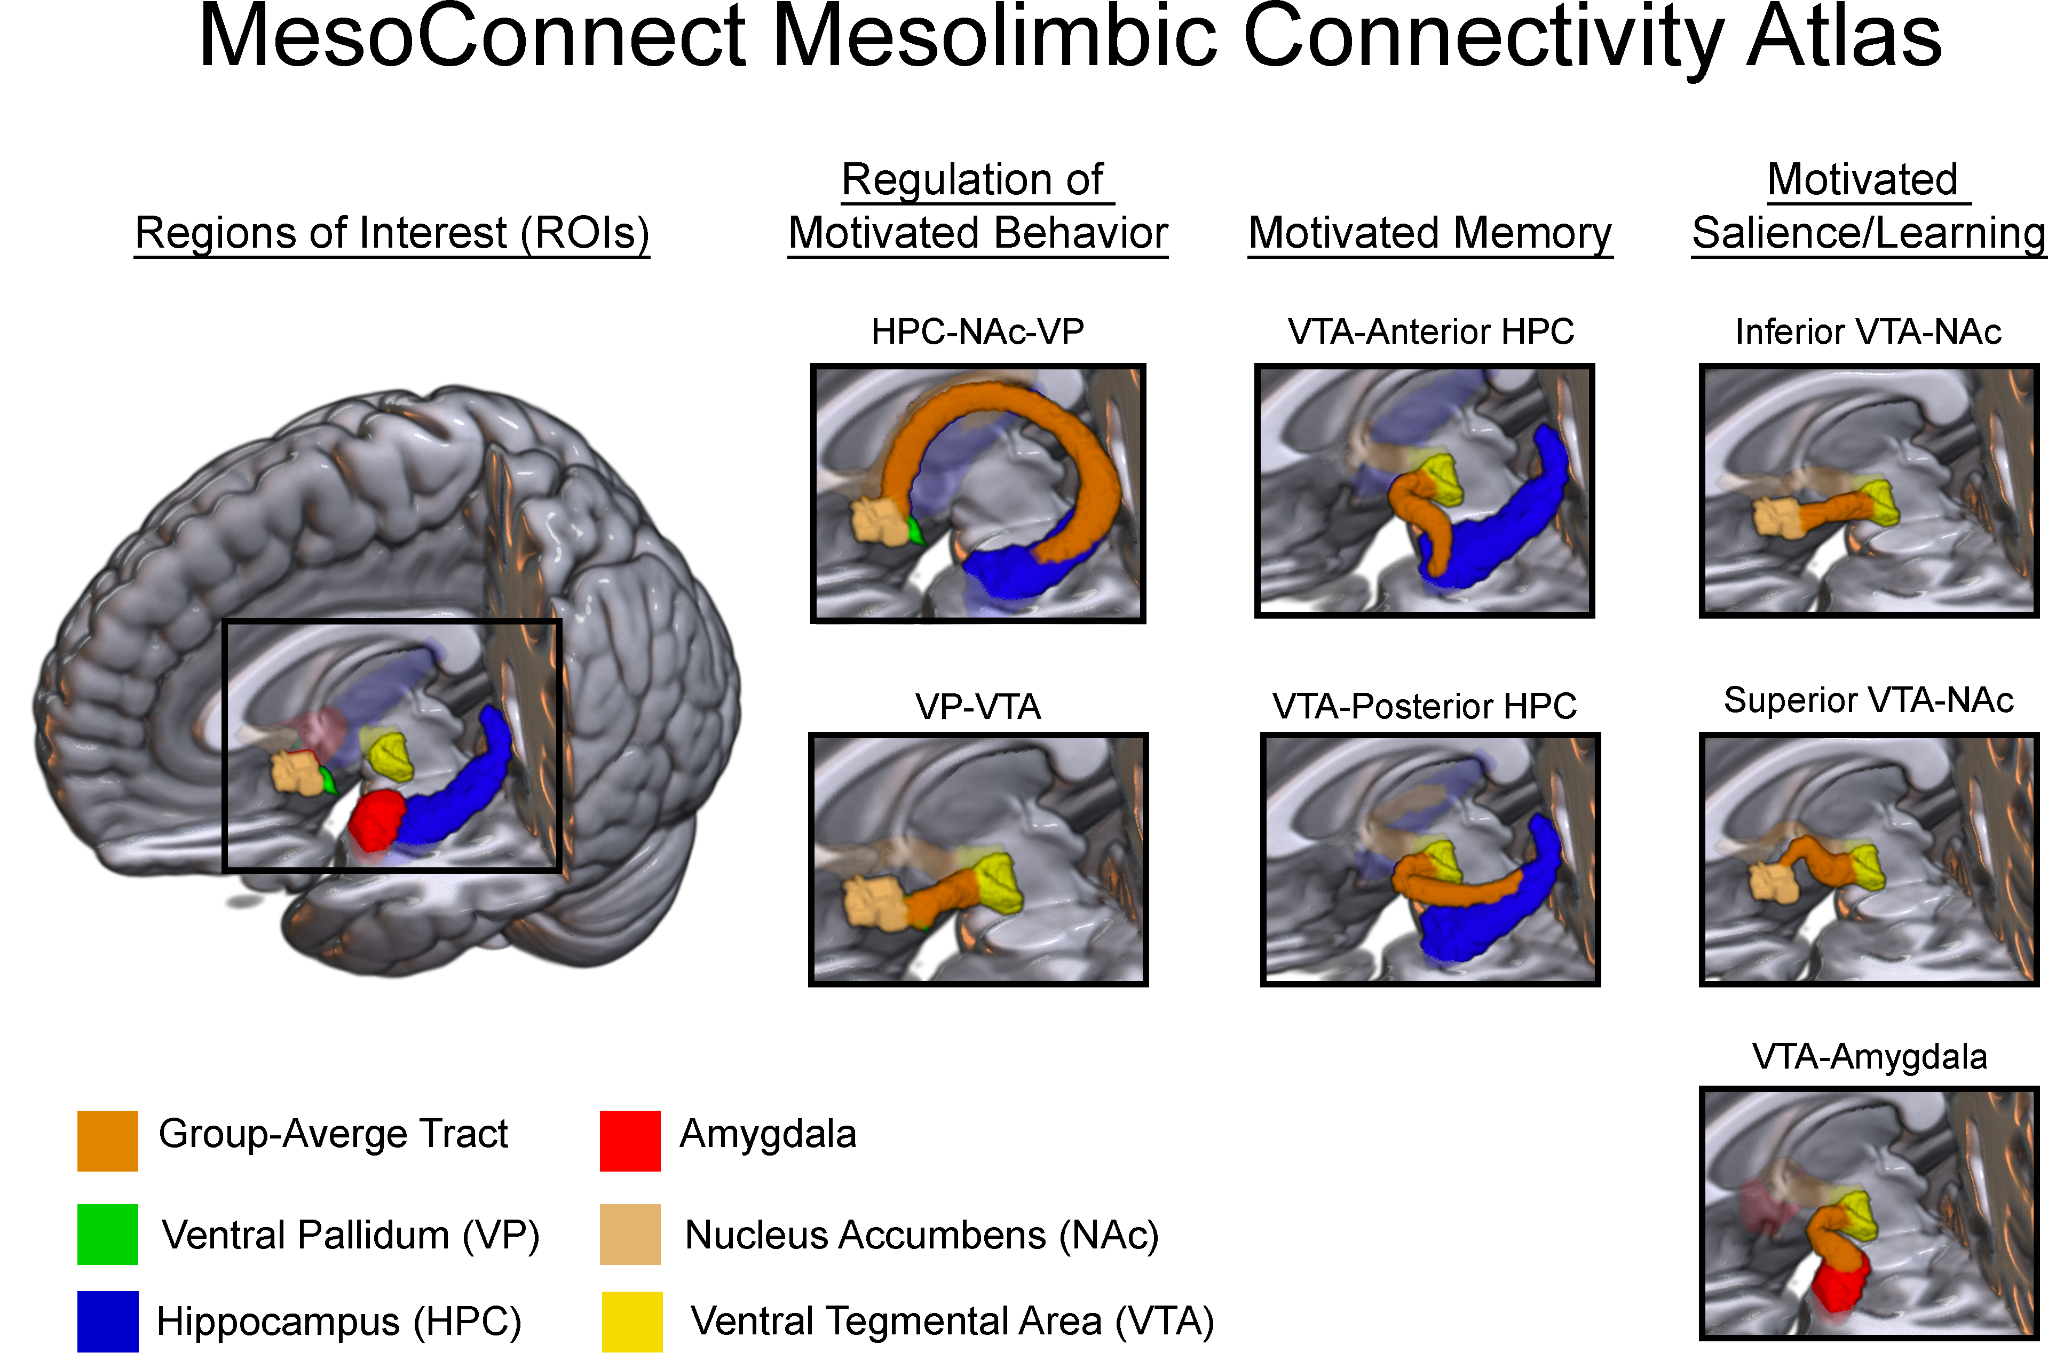
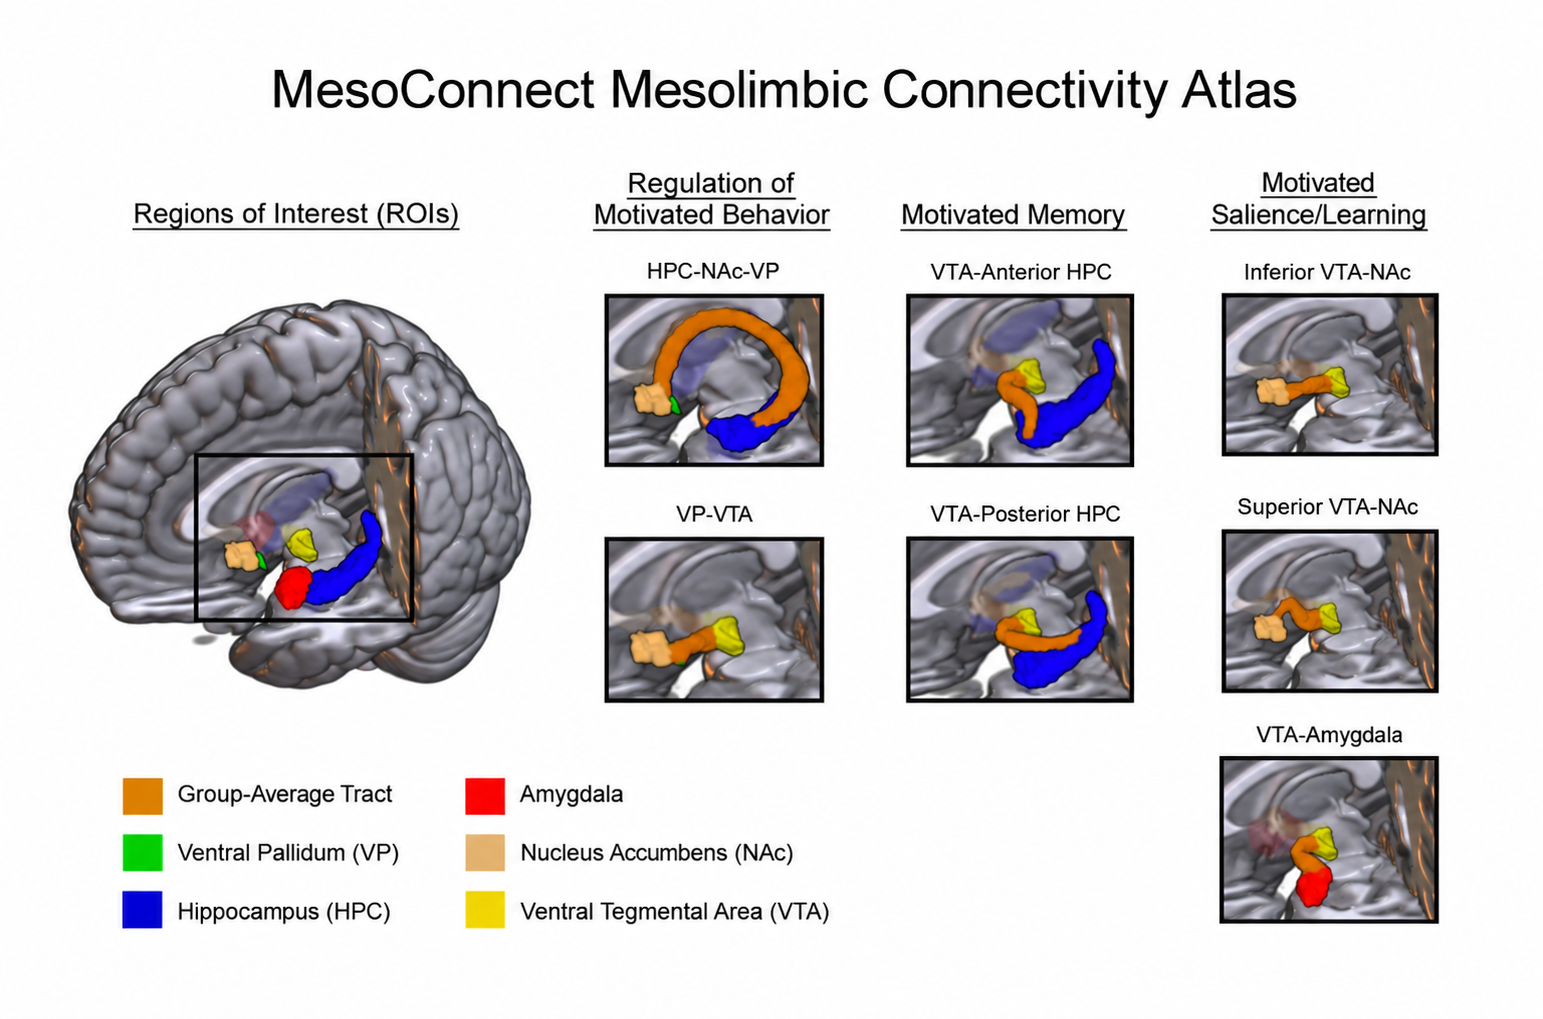
Use the re-margined atlas plate; drop the facts strip
Replaces the atlas figure with Danny's version, which carries proper margins
around its panels, and sizes it to 840 px with no frame, padding or rounding,
all of which cut into the plate's own border. The section takes the card colour
so the plate's white background meets no seam in light mode.

Removes the four-figure strip under the hero.

diff --git a/src/pages/index.module.css b/src/pages/index.module.css
@@ -1,5 +1,5 @@
 .heroBanner {
-  padding: 5rem 0 0;
+  padding: 5rem 0 4rem;
   text-align: center;
   position: relative;
   overflow: hidden;
@@ -28,40 +28,16 @@
   gap: 0.75rem;
 }
 
-/* Facts sit on the hero itself rather than in a band of their own. */
-.facts {
-  display: grid;
-  grid-template-columns: repeat(4, minmax(0, 1fr));
-  gap: 1.5rem;
-  max-width: 900px;
-  margin: 3.5rem auto 0;
-  padding: 1.5rem 0 2.5rem;
-  border-top: 1px solid rgba(148, 197, 230, 0.18);
-}
-
-.factValue {
-  margin: 0;
-  font-size: clamp(1.3rem, 2.6vw, 1.6rem);
-  font-weight: 700;
-  letter-spacing: -0.02em;
-  color: #ffffff;
-}
-
-.factLabel {
-  margin: 0.2rem 0 0;
-  font-size: 0.8rem;
-  line-height: 1.35;
-  color: rgba(226, 238, 249, 0.62);
-}
-
 .atlasSection {
-  padding: 4rem 0 1rem;
+  padding: 5rem 0 3rem;
+  background: var(--ifm-card-background-color);
+  border-bottom: 1px solid var(--surface-border);
 }
 
-/* The source figure is 2048 px wide. It is a composite plate, so it needs room for
-   its own panels to stay legible: no frame around it, and whitespace instead. */
+/* The plate carries its own margins, so it needs no frame, padding or rounding here:
+   any of those cut into its border. Full size lives on the atlas pages. */
 .atlasFigure {
-  max-width: 920px;
+  max-width: 840px;
   margin: 0 auto;
   padding: 0;
 }
@@ -70,7 +46,10 @@
   display: block;
   width: 100%;
   height: auto;
-  border-radius: 6px;
+}
+
+[data-theme='dark'] .atlasFigure img {
+  border-radius: 4px;
 }
 
 .atlasCaption {
@@ -148,12 +127,7 @@
 
 @media screen and (max-width: 996px) {
   .heroBanner {
-    padding: 3rem 1rem 0;
-  }
-
-  .facts {
-    grid-template-columns: repeat(2, minmax(0, 1fr));
-    margin-top: 2.5rem;
+    padding: 3rem 1rem;
   }
 
   .atlasSection,

diff --git a/src/pages/index.tsx b/src/pages/index.tsx
@@ -6,12 +6,6 @@ import Heading from '@theme/Heading';
 import useBaseUrl from '@docusaurus/useBaseUrl';
 import styles from './index.module.css';
 
-const FACTS = [
-  {value: '7', label: 'bilateral pathways'},
-  {value: '7 T', label: 'Human Connectome Project diffusion MRI'},
-  {value: '166–173', label: 'participants behind each map'},
-  {value: '1 mm', label: 'FSL MNI152 grid'},
-];
 
 const STAGES = [
   {
@@ -57,14 +51,6 @@ function Header() {
               Download the atlas (.zip)
             </Link>
           </div>
-        </div>
-        <div className={styles.facts}>
-          {FACTS.map((f) => (
-            <div key={f.label} className={styles.fact}>
-              <p className={styles.factValue}>{f.value}</p>
-              <p className={styles.factLabel}>{f.label}</p>
-            </div>
-          ))}
         </div>
       </div>
     </header>
